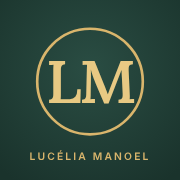
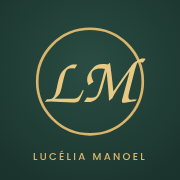
Marca LM caligráfica no ícone e na faixa do app
Claude-Session: https://claude.ai/code/session_01X1Cim1XL2ysxmwWCNSS93H

diff --git a/index.html b/index.html
@@ -25,6 +25,8 @@
 @media (prefers-color-scheme:dark){:root{
   --bg:#0f1b17;--surface:#16261f;--line:#2a3d34;--fg:#efe6cf;--muted:#a3b2a8;--gold:#e0bf74;--gold-soft:#3a3120;--brand:#e0bf74;--on-brand:#14231d;--ls:21%;--li:84%;--lm:66%;
   --warn:#f2c462;--warn-soft:#3d2f0e;--bad:#ff8a80;--bad-soft:#45201d;--ok:#6fd6a6;--ok-soft:#143526;color-scheme:dark}}
+@font-face{font-family:"LuScript";src:url("fonts/chorus.woff") format("woff");font-display:swap}
+@font-face{font-family:"LuSans";src:url("fonts/poppins-medium.woff") format("woff");font-weight:500;font-display:swap}
 [hidden]{display:none!important}
 *{box-sizing:border-box;-webkit-tap-highlight-color:transparent}
 html,body{margin:0;background:var(--bg);color:var(--fg);font:16px/1.45 var(--font);-webkit-text-size-adjust:100%}
@@ -94,8 +96,8 @@ input[type=text],input[type=password],input[type=date],input[type=time],input[ty
 .empty{border:1px dashed var(--line);border-radius:14px;padding:14px;color:var(--muted)}
 
 .brandbar{display:flex;align-items:center;gap:11px;background:#1f3b33;color:#f7efd9;border-radius:18px;padding:10px 10px 10px 12px}
-.brandbar .lm{width:42px;height:42px;border-radius:50%;border:1.5px solid #d9b56c;display:grid;place-items:center;font:600 17px/1 var(--display);color:#e8c983;letter-spacing:-.5px;flex:none}
-.brandbar b{font:600 20px/1.1 var(--display);display:block}.brandbar small{display:block;font-size:10.5px;letter-spacing:.16em;text-transform:uppercase;color:#d9b56c;margin-top:3px;font-weight:600}
+.brandbar .lm{width:44px;height:44px;border-radius:50%;border:1.5px solid #d9b56c;display:grid;place-items:center;font:400 22px/1 "LuScript",var(--display);color:#e8c983;flex:none;padding-top:2px}
+.brandbar b{font:400 27px/1 "LuScript",var(--display);display:block;color:#f7efd9}.brandbar small{display:block;font:500 10px/1 "LuSans",var(--font);letter-spacing:.3em;text-transform:uppercase;color:#d9b56c;margin-top:5px}
 .brandbar .iconbtn{background:transparent;border-color:rgba(217,181,108,.55);color:#e8c983;margin-left:auto}
 .week{display:grid;grid-template-columns:repeat(7,1fr);gap:5px}
 .day{background:var(--surface);border:1px solid var(--line);border-radius:12px;padding:6px 0 7px;display:flex;flex-direction:column;align-items:center;gap:1px;cursor:pointer}

diff --git a/sw.js b/sw.js
@@ -1,5 +1,5 @@
-const CACHE="estudos-6a-v3";
-const FILES=["./","index.html","seed.json","manifest.json","icon-180.png","icon-192.png","icon-512.png"];
+const CACHE="estudos-6a-v4";
+const FILES=["./","index.html","seed.json","manifest.json","icon-180.png","icon-192.png","icon-512.png","fonts/chorus.woff","fonts/poppins-medium.woff"];
 self.addEventListener("install",e=>{e.waitUntil(caches.open(CACHE).then(c=>c.addAll(FILES)).then(()=>self.skipWaiting()));});
 self.addEventListener("activate",e=>{e.waitUntil(caches.keys().then(k=>Promise.all(k.filter(x=>x!==CACHE).map(x=>caches.delete(x)))).then(()=>self.clients.claim()));});
 // abre na hora pelo que está guardado e busca a versão nova por trás, para a próxima abertura
